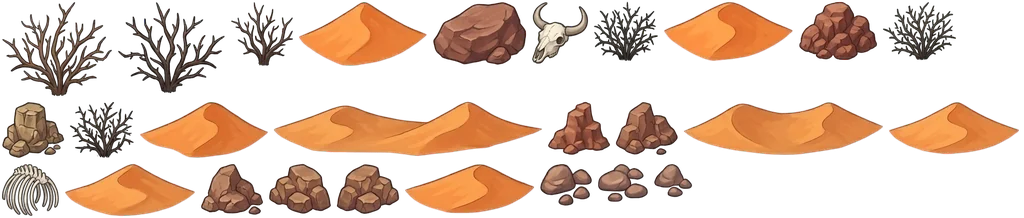
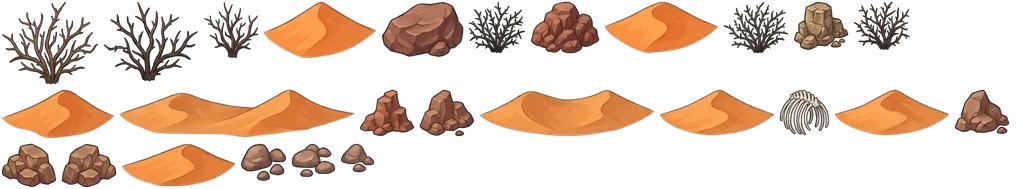
Desert: no painted hills (shown by their light), no cow skull
Claude-Session: https://claude.ai/code/session_014mPV2zL44TcDQaUfxc49uR

diff --git a/tools/anchors.html b/tools/anchors.html
@@ -7,7 +7,7 @@
 <link rel="stylesheet" href="https://fonts.googleapis.com/css2?family=Fredoka:wght@500;600;700&family=Atkinson+Hyperlegible:wght@400;700&display=swap">
 <!-- assets:start -->
 <link rel="stylesheet" href="../css/style.css?v=f3684a6442">
-<script type="importmap">{ "imports": { "../js/actions.js": "../js/actions.js?v=64dcea9537", "../js/alarm.js": "../js/alarm.js?v=b19eb6fe5c", "../js/art.js": "../js/art.js?v=0538f83fe7", "../js/clock.js": "../js/clock.js?v=98108f9b2e", "../js/cloud-config.js": "../js/cloud-config.js?v=28e7772b10", "../js/cloud.js": "../js/cloud.js?v=60da263318", "../js/combat.js": "../js/combat.js?v=b541f39113", "../js/config.js": "../js/config.js?v=28de0d8871", "../js/economy.js": "../js/economy.js?v=ad990d950a", "../js/game-server.js": "../js/game-server.js?v=b3f270680e", "../js/gear-art.js": "../js/gear-art.js?v=bc05d10529", "../js/journey.js": "../js/journey.js?v=94629b9724", "../js/main.js": "../js/main.js?v=143fa79bc5", "../js/map.js": "../js/map.js?v=5133c20042", "../js/packs.js": "../js/packs.js?v=4168625cd2", "../js/reminder.js": "../js/reminder.js?v=51a9cff03b", "../js/scar-guess.js": "../js/scar-guess.js?v=08a9385c75", "../js/sheets.js": "../js/sheets.js?v=63c24fc166", "../js/state.js": "../js/state.js?v=49a32b708b", "../js/sun.js": "../js/sun.js?v=995f47ac66", "../js/sync.js": "../js/sync.js?v=91c094f19d", "../js/teams.js": "../js/teams.js?v=8588948ee6", "../js/ui/account.js": "../js/ui/account.js?v=f0937bffca", "../js/ui/baby-info.js": "../js/ui/baby-info.js?v=98fe3b0bb1", "../js/ui/board.js": "../js/ui/board.js?v=549be40ab6", "../js/ui/breeding.js": "../js/ui/breeding.js?v=57ea23cf7e", "../js/ui/drive.js": "../js/ui/drive.js?v=2e32999583", "../js/ui/fight.js": "../js/ui/fight.js?v=2c017b3e0c", "../js/ui/forge.js": "../js/ui/forge.js?v=957efcb060", "../js/ui/gate.js": "../js/ui/gate.js?v=37490a8cd1", "../js/ui/guide.js": "../js/ui/guide.js?v=ce8bb67718", "../js/ui/header.js": "../js/ui/header.js?v=28904c3f19", "../js/ui/hexdraw.js": "../js/ui/hexdraw.js?v=2b85d0aa49", "../js/ui/incubator.js": "../js/ui/incubator.js?v=58e78f0451", "../js/ui/inventory.js": "../js/ui/inventory.js?v=c00e3eb52f", "../js/ui/journey.js": "../js/ui/journey.js?v=a26c204f5d", "../js/ui/landing.js": "../js/ui/landing.js?v=21d67b8f6d", "../js/ui/maglev.js": "../js/ui/maglev.js?v=14d0e95966", "../js/ui/mapcanvas.js": "../js/ui/mapcanvas.js?v=12d0a0fad5", "../js/ui/nest.js": "../js/ui/nest.js?v=78ba99b2fc", "../js/ui/packs.js": "../js/ui/packs.js?v=b58c488a31", "../js/ui/player.js": "../js/ui/player.js?v=698de3ae4c", "../js/ui/rewards.js": "../js/ui/rewards.js?v=85c3eabb3f", "../js/ui/shop.js": "../js/ui/shop.js?v=97faf7bd8b", "../js/ui/stats.js": "../js/ui/stats.js?v=2d7890d599", "../js/ui/tabs.js": "../js/ui/tabs.js?v=e5fb239ad5", "../js/ui/team.js": "../js/ui/team.js?v=23e16a4df3", "../js/ui/water.js": "../js/ui/water.js?v=725f4b1e60", "../js/ui/words.js": "../js/ui/words.js?v=73dbb15832", "../js/ui/world.js": "../js/ui/world.js?v=0793218d84", "../js/util.js": "../js/util.js?v=41ee3067c8", "../js/vehicles.js": "../js/vehicles.js?v=2a5ea61fa4", "../js/world.js": "../js/world.js?v=6bb3e830c7", "../tools/anchors.js": "../tools/anchors.js?v=14f32bc86a" } }</script>
+<script type="importmap">{ "imports": { "../js/actions.js": "../js/actions.js?v=64dcea9537", "../js/alarm.js": "../js/alarm.js?v=b19eb6fe5c", "../js/art.js": "../js/art.js?v=0538f83fe7", "../js/clock.js": "../js/clock.js?v=98108f9b2e", "../js/cloud-config.js": "../js/cloud-config.js?v=28e7772b10", "../js/cloud.js": "../js/cloud.js?v=60da263318", "../js/combat.js": "../js/combat.js?v=b541f39113", "../js/config.js": "../js/config.js?v=28de0d8871", "../js/economy.js": "../js/economy.js?v=ad990d950a", "../js/game-server.js": "../js/game-server.js?v=b3f270680e", "../js/gear-art.js": "../js/gear-art.js?v=bc05d10529", "../js/journey.js": "../js/journey.js?v=94629b9724", "../js/main.js": "../js/main.js?v=143fa79bc5", "../js/map.js": "../js/map.js?v=5133c20042", "../js/packs.js": "../js/packs.js?v=4168625cd2", "../js/reminder.js": "../js/reminder.js?v=51a9cff03b", "../js/scar-guess.js": "../js/scar-guess.js?v=08a9385c75", "../js/sheets.js": "../js/sheets.js?v=63c24fc166", "../js/state.js": "../js/state.js?v=49a32b708b", "../js/sun.js": "../js/sun.js?v=995f47ac66", "../js/sync.js": "../js/sync.js?v=91c094f19d", "../js/teams.js": "../js/teams.js?v=8588948ee6", "../js/ui/account.js": "../js/ui/account.js?v=f0937bffca", "../js/ui/baby-info.js": "../js/ui/baby-info.js?v=98fe3b0bb1", "../js/ui/board.js": "../js/ui/board.js?v=549be40ab6", "../js/ui/breeding.js": "../js/ui/breeding.js?v=57ea23cf7e", "../js/ui/drive.js": "../js/ui/drive.js?v=2e32999583", "../js/ui/fight.js": "../js/ui/fight.js?v=2c017b3e0c", "../js/ui/forge.js": "../js/ui/forge.js?v=957efcb060", "../js/ui/gate.js": "../js/ui/gate.js?v=37490a8cd1", "../js/ui/guide.js": "../js/ui/guide.js?v=ce8bb67718", "../js/ui/header.js": "../js/ui/header.js?v=28904c3f19", "../js/ui/hexdraw.js": "../js/ui/hexdraw.js?v=2b85d0aa49", "../js/ui/incubator.js": "../js/ui/incubator.js?v=58e78f0451", "../js/ui/inventory.js": "../js/ui/inventory.js?v=c00e3eb52f", "../js/ui/journey.js": "../js/ui/journey.js?v=a26c204f5d", "../js/ui/landing.js": "../js/ui/landing.js?v=21d67b8f6d", "../js/ui/maglev.js": "../js/ui/maglev.js?v=14d0e95966", "../js/ui/mapcanvas.js": "../js/ui/mapcanvas.js?v=f12ccda1f9", "../js/ui/nest.js": "../js/ui/nest.js?v=78ba99b2fc", "../js/ui/packs.js": "../js/ui/packs.js?v=b58c488a31", "../js/ui/player.js": "../js/ui/player.js?v=698de3ae4c", "../js/ui/rewards.js": "../js/ui/rewards.js?v=85c3eabb3f", "../js/ui/shop.js": "../js/ui/shop.js?v=97faf7bd8b", "../js/ui/stats.js": "../js/ui/stats.js?v=2d7890d599", "../js/ui/tabs.js": "../js/ui/tabs.js?v=e5fb239ad5", "../js/ui/team.js": "../js/ui/team.js?v=23e16a4df3", "../js/ui/water.js": "../js/ui/water.js?v=725f4b1e60", "../js/ui/words.js": "../js/ui/words.js?v=73dbb15832", "../js/ui/world.js": "../js/ui/world.js?v=0793218d84", "../js/util.js": "../js/util.js?v=41ee3067c8", "../js/vehicles.js": "../js/vehicles.js?v=2a5ea61fa4", "../js/world.js": "../js/world.js?v=6bb3e830c7", "../tools/anchors.js": "../tools/anchors.js?v=14f32bc86a" } }</script>
 <script type="module" src="../tools/anchors.js?v=14f32bc86a"></script>
 <!-- assets:end -->
 <style>

diff --git a/index.html b/index.html
@@ -19,7 +19,7 @@ addEventListener('load', () => setTimeout(() => sessionStorage.removeItem('nest-
 </script>
 <!-- assets:start -->
 <link rel="stylesheet" href="./css/style.css?v=f3684a6442">
-<script type="importmap">{ "imports": { "./js/actions.js": "./js/actions.js?v=64dcea9537", "./js/alarm.js": "./js/alarm.js?v=b19eb6fe5c", "./js/art.js": "./js/art.js?v=0538f83fe7", "./js/clock.js": "./js/clock.js?v=98108f9b2e", "./js/cloud-config.js": "./js/cloud-config.js?v=28e7772b10", "./js/cloud.js": "./js/cloud.js?v=60da263318", "./js/combat.js": "./js/combat.js?v=b541f39113", "./js/config.js": "./js/config.js?v=28de0d8871", "./js/economy.js": "./js/economy.js?v=ad990d950a", "./js/game-server.js": "./js/game-server.js?v=b3f270680e", "./js/gear-art.js": "./js/gear-art.js?v=bc05d10529", "./js/journey.js": "./js/journey.js?v=94629b9724", "./js/main.js": "./js/main.js?v=143fa79bc5", "./js/map.js": "./js/map.js?v=5133c20042", "./js/packs.js": "./js/packs.js?v=4168625cd2", "./js/reminder.js": "./js/reminder.js?v=51a9cff03b", "./js/scar-guess.js": "./js/scar-guess.js?v=08a9385c75", "./js/sheets.js": "./js/sheets.js?v=63c24fc166", "./js/state.js": "./js/state.js?v=49a32b708b", "./js/sun.js": "./js/sun.js?v=995f47ac66", "./js/sync.js": "./js/sync.js?v=91c094f19d", "./js/teams.js": "./js/teams.js?v=8588948ee6", "./js/ui/account.js": "./js/ui/account.js?v=f0937bffca", "./js/ui/baby-info.js": "./js/ui/baby-info.js?v=98fe3b0bb1", "./js/ui/board.js": "./js/ui/board.js?v=549be40ab6", "./js/ui/breeding.js": "./js/ui/breeding.js?v=57ea23cf7e", "./js/ui/drive.js": "./js/ui/drive.js?v=2e32999583", "./js/ui/fight.js": "./js/ui/fight.js?v=2c017b3e0c", "./js/ui/forge.js": "./js/ui/forge.js?v=957efcb060", "./js/ui/gate.js": "./js/ui/gate.js?v=37490a8cd1", "./js/ui/guide.js": "./js/ui/guide.js?v=ce8bb67718", "./js/ui/header.js": "./js/ui/header.js?v=28904c3f19", "./js/ui/hexdraw.js": "./js/ui/hexdraw.js?v=2b85d0aa49", "./js/ui/incubator.js": "./js/ui/incubator.js?v=58e78f0451", "./js/ui/inventory.js": "./js/ui/inventory.js?v=c00e3eb52f", "./js/ui/journey.js": "./js/ui/journey.js?v=a26c204f5d", "./js/ui/landing.js": "./js/ui/landing.js?v=21d67b8f6d", "./js/ui/maglev.js": "./js/ui/maglev.js?v=14d0e95966", "./js/ui/mapcanvas.js": "./js/ui/mapcanvas.js?v=12d0a0fad5", "./js/ui/nest.js": "./js/ui/nest.js?v=78ba99b2fc", "./js/ui/packs.js": "./js/ui/packs.js?v=b58c488a31", "./js/ui/player.js": "./js/ui/player.js?v=698de3ae4c", "./js/ui/rewards.js": "./js/ui/rewards.js?v=85c3eabb3f", "./js/ui/shop.js": "./js/ui/shop.js?v=97faf7bd8b", "./js/ui/stats.js": "./js/ui/stats.js?v=2d7890d599", "./js/ui/tabs.js": "./js/ui/tabs.js?v=e5fb239ad5", "./js/ui/team.js": "./js/ui/team.js?v=23e16a4df3", "./js/ui/water.js": "./js/ui/water.js?v=725f4b1e60", "./js/ui/words.js": "./js/ui/words.js?v=73dbb15832", "./js/ui/world.js": "./js/ui/world.js?v=0793218d84", "./js/util.js": "./js/util.js?v=41ee3067c8", "./js/vehicles.js": "./js/vehicles.js?v=2a5ea61fa4", "./js/world.js": "./js/world.js?v=6bb3e830c7", "./tools/anchors.js": "./tools/anchors.js?v=14f32bc86a" } }</script>
+<script type="importmap">{ "imports": { "./js/actions.js": "./js/actions.js?v=64dcea9537", "./js/alarm.js": "./js/alarm.js?v=b19eb6fe5c", "./js/art.js": "./js/art.js?v=0538f83fe7", "./js/clock.js": "./js/clock.js?v=98108f9b2e", "./js/cloud-config.js": "./js/cloud-config.js?v=28e7772b10", "./js/cloud.js": "./js/cloud.js?v=60da263318", "./js/combat.js": "./js/combat.js?v=b541f39113", "./js/config.js": "./js/config.js?v=28de0d8871", "./js/economy.js": "./js/economy.js?v=ad990d950a", "./js/game-server.js": "./js/game-server.js?v=b3f270680e", "./js/gear-art.js": "./js/gear-art.js?v=bc05d10529", "./js/journey.js": "./js/journey.js?v=94629b9724", "./js/main.js": "./js/main.js?v=143fa79bc5", "./js/map.js": "./js/map.js?v=5133c20042", "./js/packs.js": "./js/packs.js?v=4168625cd2", "./js/reminder.js": "./js/reminder.js?v=51a9cff03b", "./js/scar-guess.js": "./js/scar-guess.js?v=08a9385c75", "./js/sheets.js": "./js/sheets.js?v=63c24fc166", "./js/state.js": "./js/state.js?v=49a32b708b", "./js/sun.js": "./js/sun.js?v=995f47ac66", "./js/sync.js": "./js/sync.js?v=91c094f19d", "./js/teams.js": "./js/teams.js?v=8588948ee6", "./js/ui/account.js": "./js/ui/account.js?v=f0937bffca", "./js/ui/baby-info.js": "./js/ui/baby-info.js?v=98fe3b0bb1", "./js/ui/board.js": "./js/ui/board.js?v=549be40ab6", "./js/ui/breeding.js": "./js/ui/breeding.js?v=57ea23cf7e", "./js/ui/drive.js": "./js/ui/drive.js?v=2e32999583", "./js/ui/fight.js": "./js/ui/fight.js?v=2c017b3e0c", "./js/ui/forge.js": "./js/ui/forge.js?v=957efcb060", "./js/ui/gate.js": "./js/ui/gate.js?v=37490a8cd1", "./js/ui/guide.js": "./js/ui/guide.js?v=ce8bb67718", "./js/ui/header.js": "./js/ui/header.js?v=28904c3f19", "./js/ui/hexdraw.js": "./js/ui/hexdraw.js?v=2b85d0aa49", "./js/ui/incubator.js": "./js/ui/incubator.js?v=58e78f0451", "./js/ui/inventory.js": "./js/ui/inventory.js?v=c00e3eb52f", "./js/ui/journey.js": "./js/ui/journey.js?v=a26c204f5d", "./js/ui/landing.js": "./js/ui/landing.js?v=21d67b8f6d", "./js/ui/maglev.js": "./js/ui/maglev.js?v=14d0e95966", "./js/ui/mapcanvas.js": "./js/ui/mapcanvas.js?v=f12ccda1f9", "./js/ui/nest.js": "./js/ui/nest.js?v=78ba99b2fc", "./js/ui/packs.js": "./js/ui/packs.js?v=b58c488a31", "./js/ui/player.js": "./js/ui/player.js?v=698de3ae4c", "./js/ui/rewards.js": "./js/ui/rewards.js?v=85c3eabb3f", "./js/ui/shop.js": "./js/ui/shop.js?v=97faf7bd8b", "./js/ui/stats.js": "./js/ui/stats.js?v=2d7890d599", "./js/ui/tabs.js": "./js/ui/tabs.js?v=e5fb239ad5", "./js/ui/team.js": "./js/ui/team.js?v=23e16a4df3", "./js/ui/water.js": "./js/ui/water.js?v=725f4b1e60", "./js/ui/words.js": "./js/ui/words.js?v=73dbb15832", "./js/ui/world.js": "./js/ui/world.js?v=0793218d84", "./js/util.js": "./js/util.js?v=41ee3067c8", "./js/vehicles.js": "./js/vehicles.js?v=2a5ea61fa4", "./js/world.js": "./js/world.js?v=6bb3e830c7", "./tools/anchors.js": "./tools/anchors.js?v=14f32bc86a" } }</script>
 <script type="module" src="./js/main.js?v=143fa79bc5"></script>
 <!-- assets:end -->
 </head>

diff --git a/js/ui/mapcanvas.js b/js/ui/mapcanvas.js
@@ -223,7 +223,8 @@ const hasTexture = biome => (rank(biome) >= 0 && textures.get(`${biome}-0`)?.nat
 // whole) standing in each hex, every one wholly inside it, so nothing crosses into a neighbour; more of
 // them the denser the hex (densityOf). Each hex shows one of a few arrangements made once (LAYOUTS for
 // each density, also mirrored).
-const PLANTED = { desert: { floor: '#dcb77a', size: 15, counts: [5, 3, 1], hills: 'scrub-hills' }, floodplain: { floor: '#6f9a55', size: 10, counts: [14, 8, 3] }, coast: { floor: '#d8cba0', size: 9, counts: [10, 5, 2] }, subtropical: { floor: '#3a4426', size: 13, counts: [34, 20, 10, 4] }, scrub: { floor: '#a89a62', size: 10, counts: [12, 6, 2], hills: 'scrub-hills' }, swamp: { floor: '#56704a', size: 14, counts: [14, 8, 4], span: 4.5 }, meadow: { floor: '#a3bd74', size: 10, counts: [12, 6, 2] }, forest: { floor: '#3f5531', size: 12, counts: [40, 22, 12, 6, 2] }, hills: {}, 'scrub-hills': {} };
+// (hills: the sheet of painted hills a biome's hills take, 'hills' unless said; 'none': shown by their light alone)
+const PLANTED = { desert: { floor: '#dcb77a', size: 15, counts: [5, 3, 1], hills: 'none' }, floodplain: { floor: '#6f9a55', size: 10, counts: [14, 8, 3] }, coast: { floor: '#d8cba0', size: 9, counts: [10, 5, 2] }, subtropical: { floor: '#3a4426', size: 13, counts: [34, 20, 10, 4] }, scrub: { floor: '#a89a62', size: 10, counts: [12, 6, 2], hills: 'scrub-hills' }, swamp: { floor: '#56704a', size: 14, counts: [14, 8, 4], span: 4.5 }, meadow: { floor: '#a3bd74', size: 10, counts: [12, 6, 2] }, forest: { floor: '#3f5531', size: 12, counts: [40, 22, 12, 6, 2] }, hills: {}, 'scrub-hills': {} };
 const floors = new WeakMap();
 const floorPattern = (ctx, biome, img) => { let m = floors.get(ctx); if (!m) floors.set(ctx, m = new Map()); if (!m.has(biome)) m.set(biome, ctx.createPattern(img, 'repeat')); return m.get(biome); };
 const LAYOUTS = 10, LAYOUT_PX = 5;   // arrangements a density, pixels a map unit they are made at
